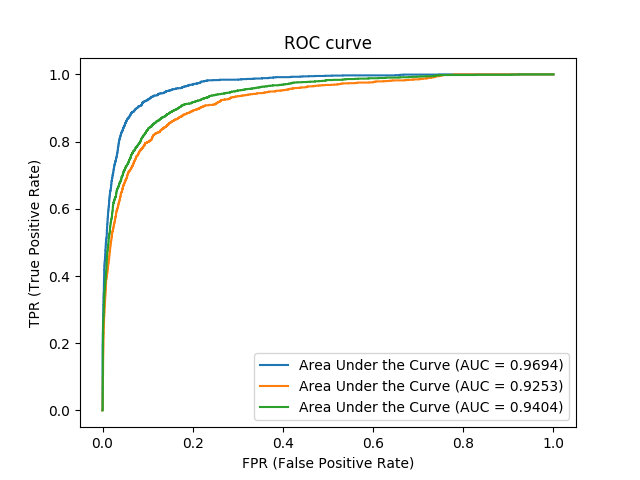
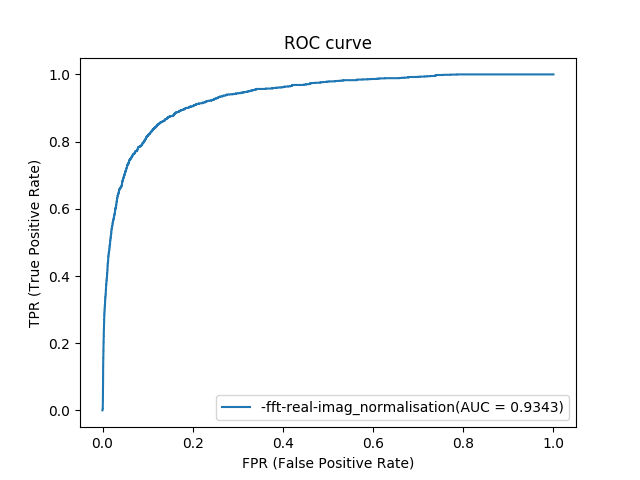
2

Changed region(s): [[0.3438, 0.75, 0.9062, 0.875], [0.1562, 0.125, 0.8438, 0.8438]]

diff --git a/src/ROC_plot.py b/src/ROC_plot.py
@@ -76,12 +76,13 @@ for name_experiment in name_experiment_list:
 	# test_integral = np.trapz(tpr,fpr) #trapz is numpy integration
 	print "\nArea under the ROC curve: " + str(AUC_ROC)
 	# roc_curve = plt.figure()
+	plt.figure()
 	plt.plot(fpr, tpr, '-', label=name_experiment[25:]+'(AUC = %0.4f)' % AUC_ROC)
 	plt.title('ROC curve')
 	plt.xlabel("FPR (False Positive Rate)")
 	plt.ylabel("TPR (True Positive Rate)")
 	plt.legend(loc="lower right")
-	# plt.savefig('./roc_curve/' +name_experiment + "_ROC.png")
+	plt.savefig('./roc_curve/' +name_experiment + "_ROC.png")
 
 	# fpr, tpr, thresholds = roc_curve(y_true = patches_masks_val[:,1], y_score=y_pred[:,1], drop_intermediate=False)
 	# AUC_ROC = roc_auc_score(patches_masks_val[:,1], y_pred[:,1])
@@ -90,6 +91,6 @@ for name_experiment in name_experiment_list:
 	# # roc_curve = plt.figure()
 	# plt.plot(fpr, tpr, '-',label=' (AUC = %0.4f)' %  AUC_ROC)
 	
-plt.savefig('./roc_curve/' + "comparative_ROC.png")
+# plt.savefig('./roc_curve/' + "comparative_ROC.png")
 
 
